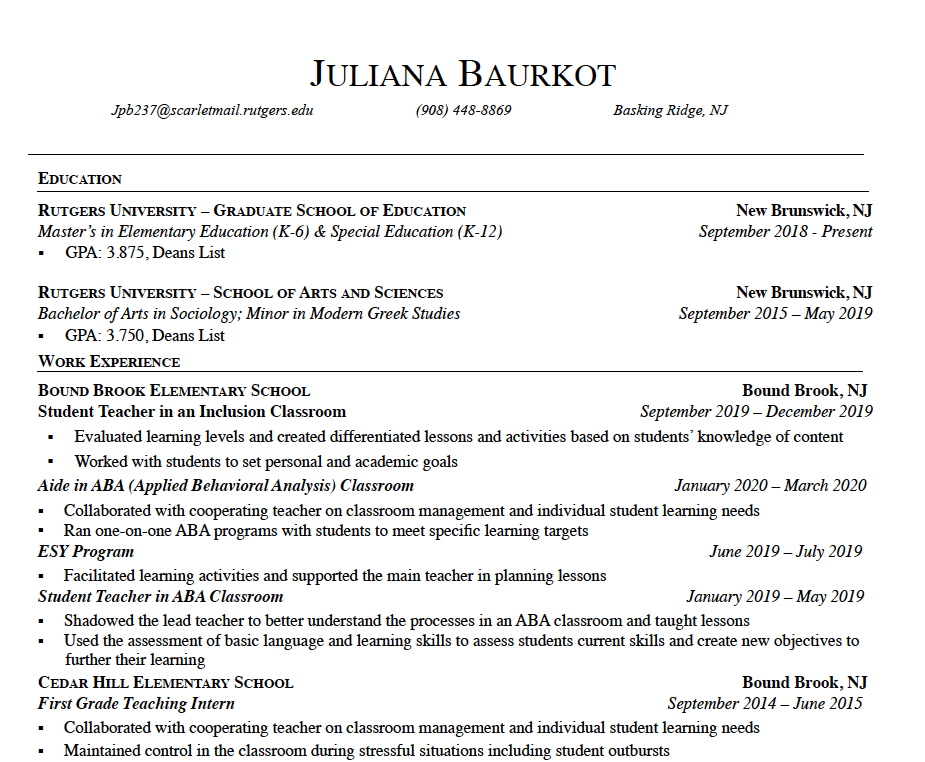
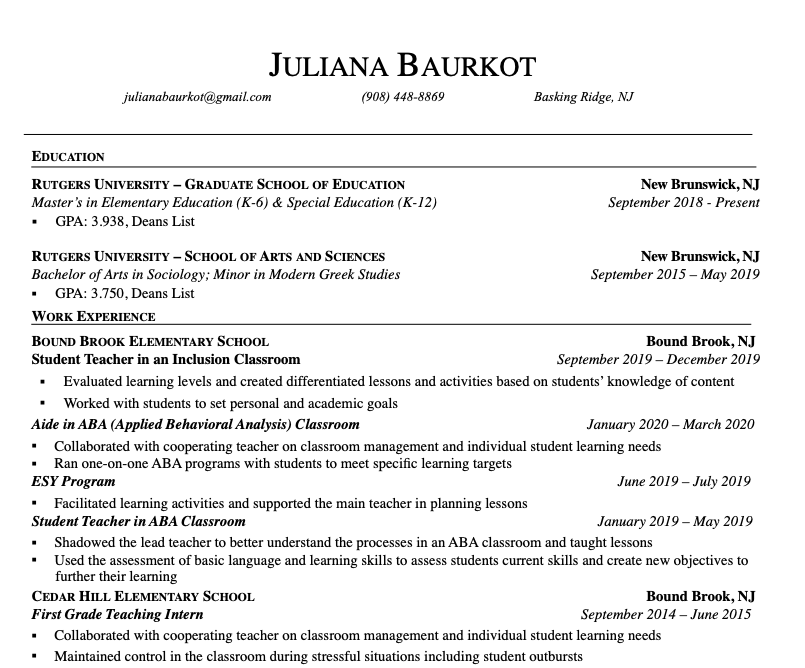
resume updated, education section updated

diff --git a/index.html b/index.html
@@ -116,20 +116,28 @@
         <div class="resume-item d-flex flex-column flex-md-row justify-content-between mb-2">
             <div class="resume-content">
               <div class="resume-date text-md-right">
-                <span class="text-info">March 2019 - June 2019</span>
+                <span class="text-info">September 2018 - May 2020</span>
               </div>
-              <h3 class="mb-0">Rutgers Coding Bootcamp</h3>
-              <div class="subheading mb-3 cert">Certified Full Stack web-developer</div>
+              <h3 class="mb-0">RUTGERS UNIVERSITY – GRADUATE SCHOOL OF EDUCATION</h3>
+              <div class="resume-date text-md-right">
+                <span class="text-info">New Brunswick, NJ</span>
+              </div>
+              <div class="subheading mb-0 cert">Master’s in Elementary Education (K-6) & Special Education (K-12)</div>
+              <div class="subheading mb-3 cert">GPA: 3.938, Deans List </div>
             </div>
           </div>
 
           <div class="resume-item d-flex flex-column flex-md-row justify-content-between mb-2">
             <div class="resume-content">
               <div class="resume-date text-md-right">
-                <span class="text-info">March 2019 - June 2019</span>
+                <span class="text-info">September 2015 – May 2019</span>
               </div>
-              <h3 class="mb-0">Rutgers Coding Bootcamp</h3>
-              <div class="subheading mb-3 cert">Certified Full Stack web-developer</div>
+              <h3 class="mb-0">RUTGERS UNIVERSITY – SCHOOL OF ARTS AND SCIENCES</h3>
+              <div class="resume-date text-md-right">
+                <span class="text-info">New Brunswick, NJ</span>
+              </div>
+              <div class="subheading mb-0 cert">Bachelor of Arts in Sociology; Minor in Modern Greek Studies</div>
+              <div class="subheading mb-3 cert">GPA: 3.750, Deans List </div>
             </div>
           </div>
     </section>
